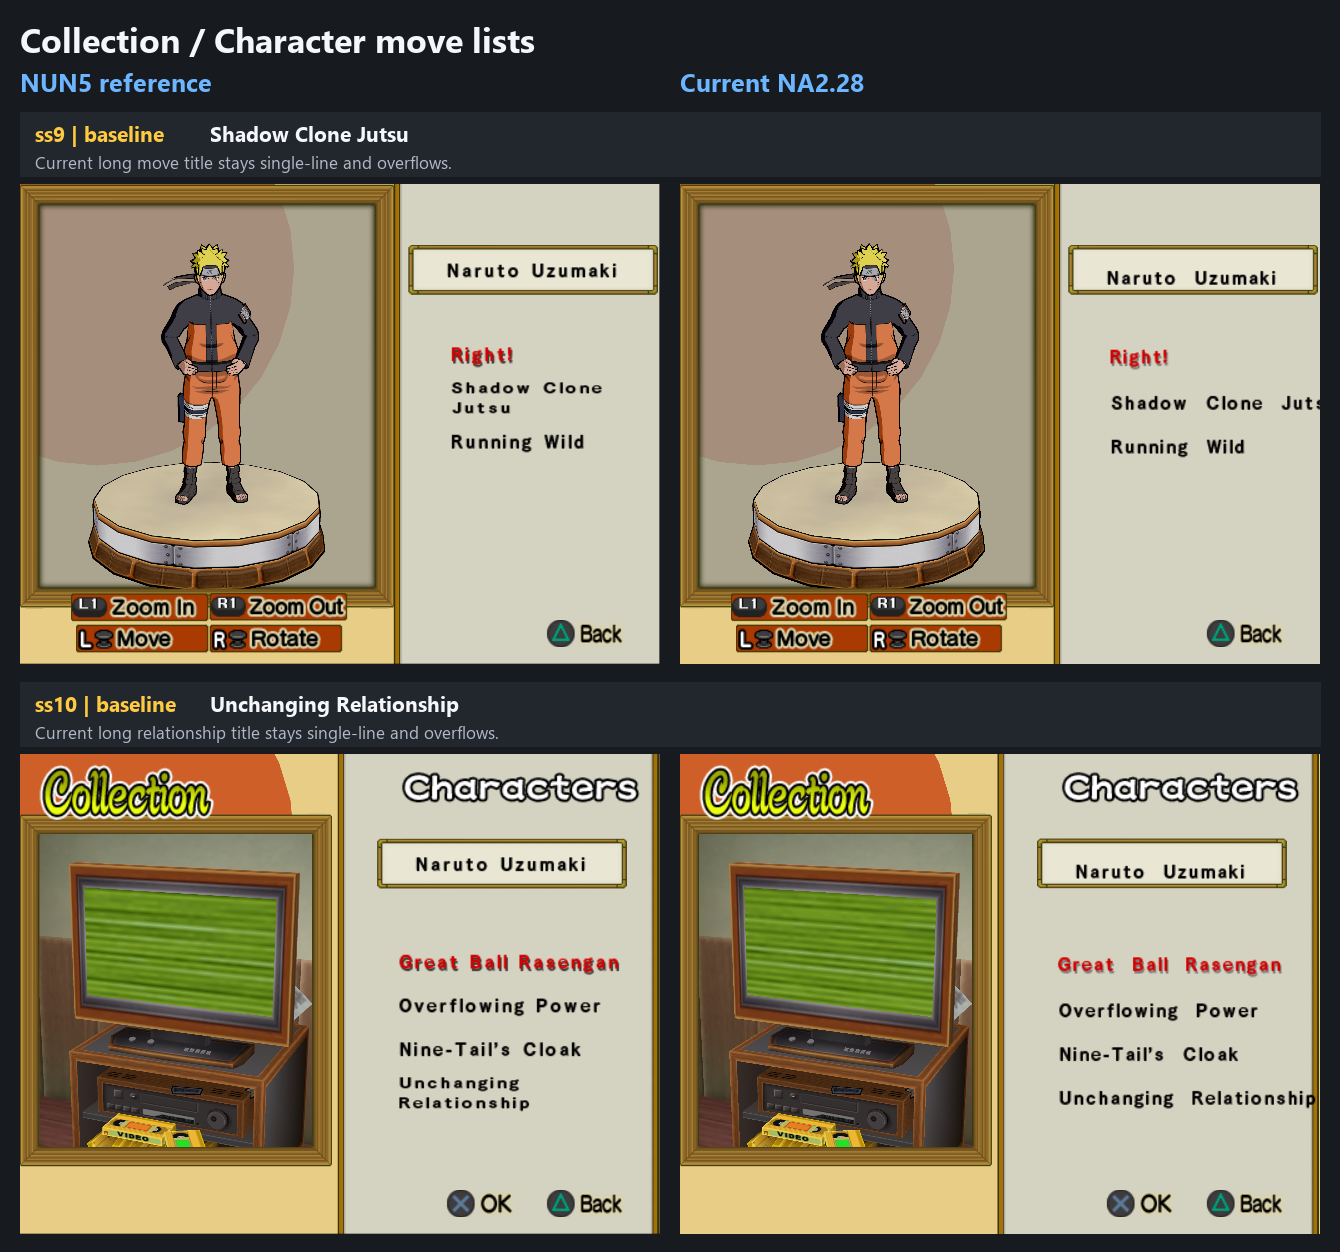
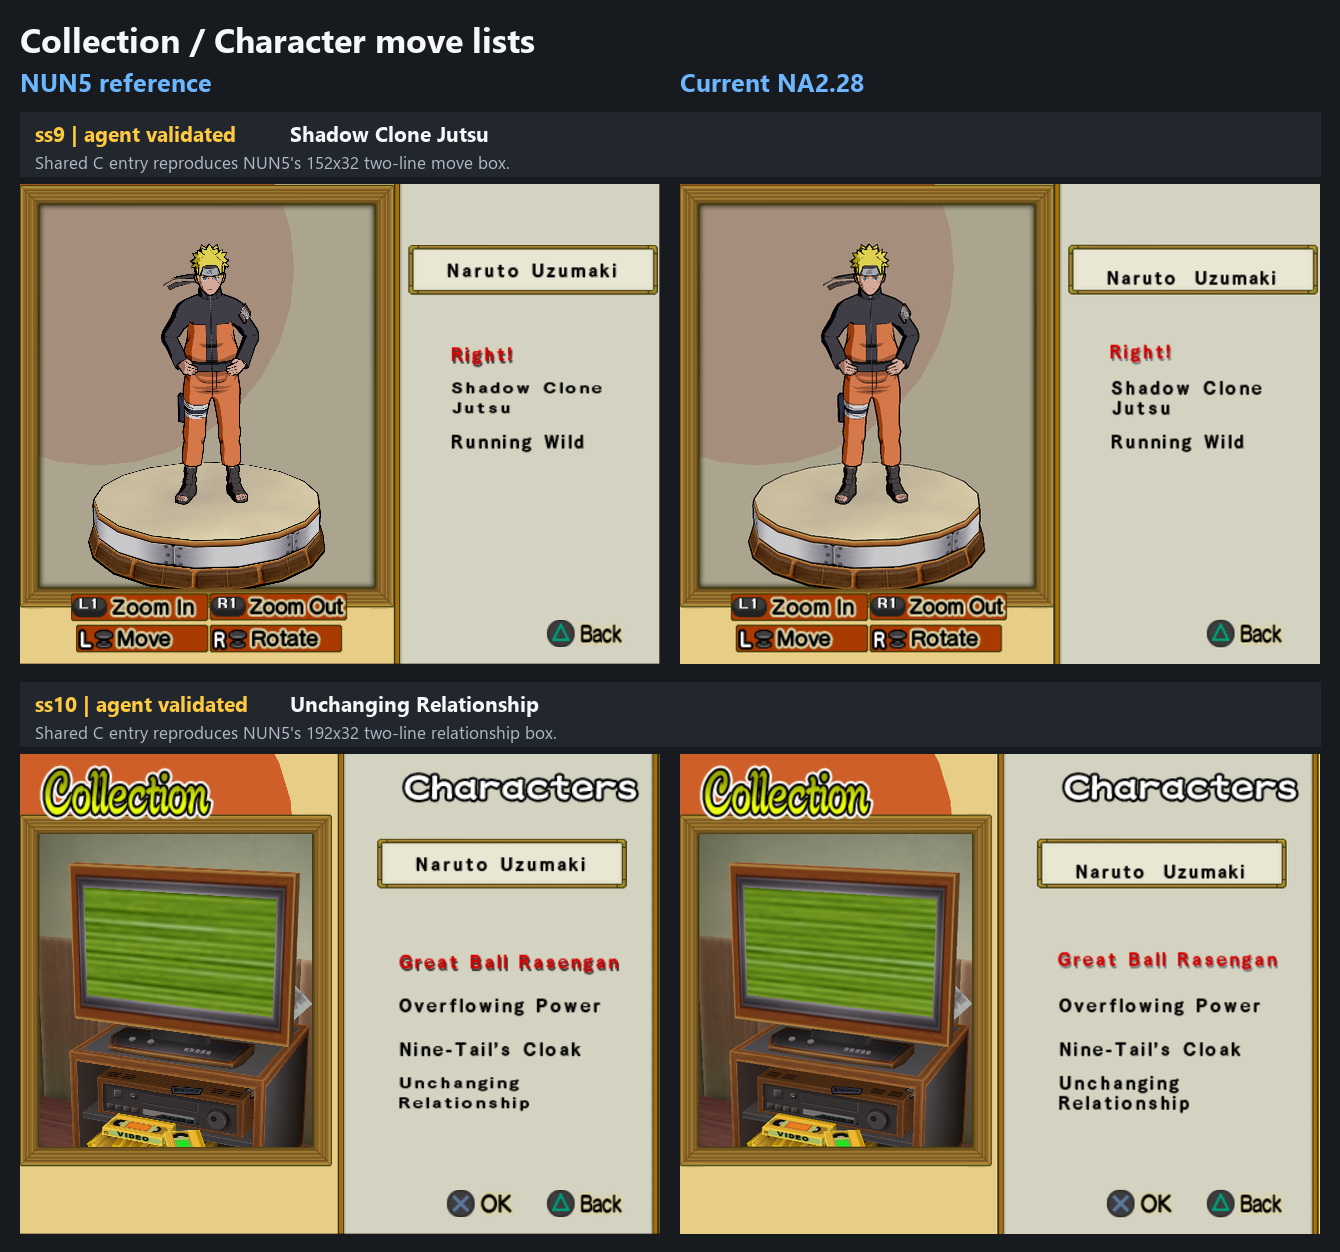
[Font] Wrap Collection character move lists

diff --git a/na228_builder/features/localization/runtime_injector/sources/font_v2_core.c b/na228_builder/features/localization/runtime_injector/sources/font_v2_core.c
@@ -62,14 +62,23 @@ typedef signed int s32;
 #define FONT_JUTSU_LINE_ADVANCE 16.0f
 #define FONT_JUTSU_GLYPH_HEIGHT 20.0f
 #define FONT_JUTSU_LINE_LIMIT 2u
-#define FONT_MOVIE_TEXT_START 0x003FFAA0u
-#define FONT_MOVIE_TEXT_END 0x003FFC10u
-#define FONT_MOVIE_BOX_Y_OFFSET -10.0f
-#define FONT_MOVIE_BOX_WIDTH 192u
-#define FONT_MOVIE_BOX_HEIGHT 32u
-#define FONT_MOVIE_LINE_ADVANCE 16.0f
-#define FONT_MOVIE_GLYPH_HEIGHT 20.0f
-#define FONT_MOVIE_LINE_LIMIT 2u
+#define FONT_COLLECTION_MOVIE_TEXT_START 0x003FFAA0u
+#define FONT_COLLECTION_MOVIE_TEXT_END 0x003FFC10u
+#define FONT_CHARACTER_MOVE_152_TEXT_0 0x006D9BD8u
+#define FONT_CHARACTER_MOVE_152_TEXT_1 0x006D9C00u
+#define FONT_CHARACTER_MOVE_152_TEXT_2 0x006D9C40u
+#define FONT_CHARACTER_MOVE_192_TEXT_0 0x006DC340u
+#define FONT_CHARACTER_MOVE_192_TEXT_1 0x006DC370u
+#define FONT_CHARACTER_MOVE_192_TEXT_2 0x006DC3A0u
+#define FONT_CHARACTER_MOVE_192_TEXT_3 0x006DC3C0u
+#define FONT_COLLECTION_LIST_BOX_Y_OFFSET -10.0f
+#define FONT_COLLECTION_MOVIE_BOX_WIDTH 192u
+#define FONT_CHARACTER_MOVE_152_BOX_WIDTH 152u
+#define FONT_CHARACTER_MOVE_192_BOX_WIDTH 192u
+#define FONT_COLLECTION_LIST_BOX_HEIGHT 32u
+#define FONT_COLLECTION_LIST_LINE_ADVANCE 16.0f
+#define FONT_COLLECTION_LIST_GLYPH_HEIGHT 20.0f
+#define FONT_COLLECTION_LIST_LINE_LIMIT 2u
 #define FONT_PRACTICE_TITLE_BOX_X 31.2f
 #define FONT_PRACTICE_TITLE_BOX_WIDTH 352u
 #define FONT_PRACTICE_TITLE_Y_OFFSET -6.8f
@@ -1057,8 +1066,8 @@ int font_v2_jutsu_draw_entry(
     return font_v2_adapter_call(&frame.session);
 }
 
-static FONT_V2_SECTION(".text.font_v2_movie_list_callback")
-int font_v2_movie_list_callback(
+static FONT_V2_SECTION(".text.font_v2_collection_list_callback")
+int font_v2_collection_list_callback(
     u32 text,
     u32 highlighted,
     u32 arg2,
@@ -1095,8 +1104,8 @@ int font_v2_movie_list_callback(
     return 0;
 }
 
-FONT_V2_SECTION(".text.font_v2_movie_list_entry")
-int font_v2_movie_list_entry(
+FONT_V2_SECTION(".text.font_v2_collection_list_entry")
+int font_v2_collection_list_entry(
     const u8 *text,
     u32 highlighted,
     float native_x,
@@ -1105,15 +1114,31 @@ int font_v2_movie_list_entry(
     FontV2BodyFrame frame;
     FontV2NativeDraw draw = (FontV2NativeDraw)FONT_DRAW_ADDRESS;
     u32 text_address = (u32)text;
+    u32 box_width = 0;
     u32 index = 0;
 
     if (!text) {
         return -1;
     }
     if (
-        text_address < FONT_MOVIE_TEXT_START ||
-        text_address >= FONT_MOVIE_TEXT_END
+        text_address >= FONT_COLLECTION_MOVIE_TEXT_START &&
+        text_address < FONT_COLLECTION_MOVIE_TEXT_END
     ) {
+        box_width = FONT_COLLECTION_MOVIE_BOX_WIDTH;
+    } else if (
+        text_address == FONT_CHARACTER_MOVE_152_TEXT_0 ||
+        text_address == FONT_CHARACTER_MOVE_152_TEXT_1 ||
+        text_address == FONT_CHARACTER_MOVE_152_TEXT_2
+    ) {
+        box_width = FONT_CHARACTER_MOVE_152_BOX_WIDTH;
+    } else if (
+        text_address == FONT_CHARACTER_MOVE_192_TEXT_0 ||
+        text_address == FONT_CHARACTER_MOVE_192_TEXT_1 ||
+        text_address == FONT_CHARACTER_MOVE_192_TEXT_2 ||
+        text_address == FONT_CHARACTER_MOVE_192_TEXT_3
+    ) {
+        box_width = FONT_CHARACTER_MOVE_192_BOX_WIDTH;
+    } else {
         draw(native_x, native_y, text, highlighted);
         return 0;
     }
@@ -1127,8 +1152,8 @@ int font_v2_movie_list_entry(
     if (
         font_v2_wrap_native(
             frame.buffer,
-            FONT_MOVIE_BOX_WIDTH,
-            FONT_MOVIE_LINE_LIMIT,
+            box_width,
+            FONT_COLLECTION_LIST_LINE_LIMIT,
             &frame.session.measured_width,
             &frame.session.line_count
         ) != 0
@@ -1138,9 +1163,9 @@ int font_v2_movie_list_entry(
 
     frame.session.text = frame.buffer;
     frame.session.box_x = native_x;
-    frame.session.box_y = native_y + FONT_MOVIE_BOX_Y_OFFSET;
-    frame.session.box_width = FONT_MOVIE_BOX_WIDTH;
-    frame.session.box_height = FONT_MOVIE_BOX_HEIGHT;
+    frame.session.box_y = native_y + FONT_COLLECTION_LIST_BOX_Y_OFFSET;
+    frame.session.box_width = box_width;
+    frame.session.box_height = FONT_COLLECTION_LIST_BOX_HEIGHT;
     frame.session.horizontal_alignment = FONT_V2_ALIGN_START;
     frame.session.vertical_alignment = FONT_V2_ALIGN_CENTER;
     frame.session.flags =
@@ -1148,10 +1173,10 @@ int font_v2_movie_list_entry(
         FONT_V2_FLAG_SEPARATE_LINE_ADVANCE |
         FONT_V2_FLAG_PREMEASURED |
         FONT_V2_FLAG_GLYPH_HEIGHT;
-    frame.session.line_limit = FONT_MOVIE_LINE_LIMIT;
-    frame.session.line_height = FONT_MOVIE_LINE_ADVANCE;
-    frame.session.glyph_height = FONT_MOVIE_GLYPH_HEIGHT;
-    frame.session.callback = (u32)font_v2_movie_list_callback;
+    frame.session.line_limit = FONT_COLLECTION_LIST_LINE_LIMIT;
+    frame.session.line_height = FONT_COLLECTION_LIST_LINE_ADVANCE;
+    frame.session.glyph_height = FONT_COLLECTION_LIST_GLYPH_HEIGHT;
+    frame.session.callback = (u32)font_v2_collection_list_callback;
     frame.session.callback_arg0 = (u32)frame.buffer;
     frame.session.callback_arg1 = highlighted;
     frame.session.callback_arg2 = 0;

diff --git a/scripts/research/localization/verify_font_renderer.py b/scripts/research/localization/verify_font_renderer.py
@@ -119,8 +119,8 @@ V2_CHARACTER_UNSELECTED_ADAPTER = (
 )
 V2_JUTSU_DRAW_CALLBACK = f"{V2_PREFIX}.c.jutsu_draw_callback"
 V2_JUTSU_DRAW_ENTRY = f"{V2_PREFIX}.jutsu_draw_entry"
-V2_MOVIE_LIST_CALLBACK = f"{V2_PREFIX}.c.movie_list_callback"
-V2_MOVIE_LIST_ENTRY = f"{V2_PREFIX}.movie_list_entry"
+V2_COLLECTION_LIST_CALLBACK = f"{V2_PREFIX}.c.collection_list_callback"
+V2_COLLECTION_LIST_ENTRY = f"{V2_PREFIX}.collection_list_entry"
 V2_CHARACTER_CONFIRMATION_BODY_CALLBACK = (
     f"{V2_PREFIX}.c.character_confirmation_body_callback"
 )
@@ -444,7 +444,7 @@ def build_v2_c_core() -> tuple[Fragment, ...]:
         "font_v2_character_selected_adapter",
         "font_v2_character_unselected_adapter",
         "font_v2_jutsu_draw_entry",
-        "font_v2_movie_list_entry",
+        "font_v2_collection_list_entry",
         "font_v2_practice_icon_metric",
         "font_v2_practice_icon_draw",
         "font_v2_practice_adapter_impl",
@@ -520,8 +520,8 @@ def build_v2_c_core() -> tuple[Fragment, ...]:
         extracted.symbols["font_v2_jutsu_draw_entry"].symbol: (
             V2_JUTSU_DRAW_ENTRY
         ),
-        extracted.symbols["font_v2_movie_list_entry"].symbol: (
-            V2_MOVIE_LIST_ENTRY
+        extracted.symbols["font_v2_collection_list_entry"].symbol: (
+            V2_COLLECTION_LIST_ENTRY
         ),
         extracted.symbols["font_v2_practice_icon_metric"].symbol: (
             V2_PRACTICE_ICON_METRIC
@@ -559,8 +559,8 @@ def build_v2_c_core() -> tuple[Fragment, ...]:
         f"{V2_PREFIX}.c.text.font.v2.jutsu.draw.callback": (
             V2_JUTSU_DRAW_CALLBACK
         ),
-        f"{V2_PREFIX}.c.text.font.v2.movie.list.callback": (
-            V2_MOVIE_LIST_CALLBACK
+        f"{V2_PREFIX}.c.text.font.v2.collection.list.callback": (
+            V2_COLLECTION_LIST_CALLBACK
         ),
     }
     if helper_symbols != set(helper_aliases):
@@ -624,8 +624,8 @@ def build_v2_c_core() -> tuple[Fragment, ...]:
         V2_CHARACTER_CONFIRMATION_BODY_CALLBACK,
         V2_JUTSU_DRAW_CALLBACK,
         V2_JUTSU_DRAW_ENTRY,
-        V2_MOVIE_LIST_CALLBACK,
-        V2_MOVIE_LIST_ENTRY,
+        V2_COLLECTION_LIST_CALLBACK,
+        V2_COLLECTION_LIST_ENTRY,
         f"{V2_PREFIX}.c.icon_record",
         V2_PRACTICE_ICON_METRIC,
         V2_PRACTICE_ICON_DRAW,

diff --git a/docs/knowledge/localization/font/README.md b/docs/knowledge/localization/font/README.md
@@ -1093,41 +1093,58 @@ a truthful post-change result grid. Clean-construction runtime validation and
 user acceptance remain pending. Confidence is **high** for the bounded caller
 identity and target geometry; status is **approved for test**.
 
-### Collection Movie-list fixed-cadence wrapping
+### Collection fixed-cadence list wrapping
 
-The replacement 2026-07-30 ss8 pair isolates the Collection Movie list.
-Bounded NA2 ETC inspection identifies `FUN_006B4D30`; its single active title
-draw is runtime `0x006B4ED8`, file `0xFD8`, guarded by
+The replacement 2026-07-30 ss8-ss10 pairs isolate the Collection Movie and
+character-detail lists. Bounded NA2 ETC inspection identifies
+`FUN_006B4D30`; its shared active row draw is runtime `0x006B4ED8`, file
+`0xFD8`, guarded by
 `10E40D0C00000000` (`jal 0x00379040` plus NOP). The NUN5 homolog
 `FUN_006C7CA0` replaces the corresponding draw at ETC file `0x1164` with its
 boxed renderer at `0x0038A210`.
 
-NUN5 uses a 192-by-32, two-line box at native X and native Y minus 10. The
-outer list retains fixed row cadence; wrapped titles occupy two lines inside
-their existing row rather than increasing later row positions. Its exact
-visible breaks are:
+NUN5 stores the active box width and height in each list structure at
+`+0x14/+0x18`. The supplied states prove a 192-by-32 box for ss8 Movie titles,
+a 152-by-32 box for the ss9 move list, and a 192-by-32 box for the ss10
+relationship list. Every family uses native X, native Y minus 10, two lines,
+and a 16-unit line interval. The outer list retains fixed row cadence; wrapped
+titles occupy two lines inside their existing row rather than increasing later
+row positions. Exact visible breaks include:
 
 - `Sealing Jutsu: Nine` / `Phantom Dragons`;
 - `People of Endless` / `Darkness`;
 - `Ninja Art: Beast` / `Scroll Replicas`;
-- `Fourth Awakened` / `Mode`.
+- `Fourth Awakened` / `Mode`;
+- `Shadow Clone` / `Jutsu`;
+- `Unchanging` / `Relationship`.
 
-The bounded implementation accepts only Movie-title pointers in
-`0x003FFAA0..0x003FFC10`, copies the source to a transient buffer, and reuses
+NA2's ss9 parent at `0x00C8D110` points to list head `0x00C75C00`; the visible
+text pointers are `0x006D9BD8` (`Right!`), `0x006D9C00`
+(`Shadow Clone Jutsu`), and `0x006D9C40` (`Running Wild`). Its ss10 parent at
+`0x00C9BDE0` points to list head `0x00C79EE0`; the visible text pointers are
+`0x006DC340`, `0x006DC370`, `0x006DC3A0`, and `0x006DC3C0`. The corresponding
+NUN5 parents are `0x00C0BCA0` with width 152 and `0x00C1C630` with width 192.
+The NA2 structures do not retain homologous usable box fields at the NUN5
+offsets, so copying those offsets is not a valid implementation.
+
+The bounded implementation accepts Movie-title pointers in
+`0x003FFAA0..0x003FFC10` plus only the seven exact ss9/ss10 character-detail
+pointers above, copies the source to a transient buffer, and reuses
 `font_v2_wrap_native` with a two-line limit. It draws each resulting line
 through the displaced native renderer at a 16-unit interval. That separate
 line draw is required because passing the inserted newline to NA2's native
-renderer produces a 25-unit interval on this screen. Short titles, the
+renderer produces a 25-unit interval on these screens. Short titles, the
 highlighted red style, fixed caller cadence, source mappings, and every
-non-Movie use of the shared renderer remain native.
+other pointer through the shared renderer remain native.
 
-The task-owned ss8 candidate gives the same four breaks and horizontal origins
-as NUN5, while `Reunion Time I`, `Reunion Time II`, and `Credits` retain their
-native rows. The candidate was compiled and linked against the exact
-compatible ISO, applied after supplied-state reload, and captured through the
-task-owned PINE worker. Confidence is **verified** for the caller, pointer
-boundary, wrapper geometry, line interval, and visible ss8 result; status is
-**approved for test** pending explicit user acceptance.
+Task-owned ss8-ss10 candidates reproduce every NUN5 break and horizontal
+origin. `Reunion Time I`, `Reunion Time II`, `Credits`, `Right!`,
+`Running Wild`, and the three short ss10 titles retain their native rows. The
+candidates were compiled and linked against the exact compatible ISO, applied
+after each supplied-state reload, and captured through the task-owned PINE
+worker. Confidence is **verified** for the shared caller, pointer families,
+three box geometries, line interval, ss8 regression, and visible ss9/ss10
+results; status is **approved for test** pending explicit user acceptance.
 
 ### Character Select modal selected row, return body, and choice list
 

diff --git a/docs/workstreams/font/epics/ss2-6-layout/README.md b/docs/workstreams/font/epics/ss2-6-layout/README.md
@@ -14,9 +14,10 @@ case.
 - Mode: Continuous.
 - Current subtask: Priority 6 — ss9–ss10 character move lists. Priority 4 remains
   queued because supplied ss7 resumes after its two owner calls.
-- Pending grid: none.
-- Next action: investigate the shared ss9–ss10 move-list caller family without
-  waiting for earlier acceptance.
+- Pending grid:
+  `docs/workstreams/font/epics/ss2-6-layout/6-character-move-list.png`.
+- Next action: finish canonical validation and visibly deliver the Priority 6
+  result, then stop as explicitly requested.
 
 ## Scope and evidence
 
@@ -136,11 +137,16 @@ case.
 
 ### Priority 6 — ss9–ss10: Character move lists
 
-- State: two matched baselines captured; not implemented.
-- Remaining defect: Current keeps long move and relationship titles on one
-  line and overflows, while NUN5 wraps them within the move-list column.
+- State: implemented, canonically validated, agent-validated on both supplied
+  states, and awaiting visible delivery and explicit user acceptance.
+- Result: the shared ETC row entry recognizes only the two exact
+  character-detail pointer families. ss9 uses NUN5's 152-by-32 box and ss10
+  uses its 192-by-32 box; both retain native X, move Y up 10 units, and use the
+  accepted 16-unit two-line compositor. Short rows and every unrelated ETC row
+  remain native. The broadened entry also preserves the accepted ss8 Movie-list
+  output.
 
-![Priority 6 Character move-list baselines](6-character-move-list.png)
+![Priority 6 Character move-list result](6-character-move-list.png)
 
 ## Current priorities
 
@@ -156,9 +162,9 @@ Priority is determined by the most efficient implementation order.
    construction evidence remains queued.
 5. **ss8 — Movie list.** Implemented, agent-validated, and visibly delivered
    with fixed-cadence two-line wrapping; explicit user acceptance is pending.
-6. **ss9–ss10 — Character move lists.** Next actionable case: reuse one
-   bounded wrapping primitive for both long-title cases where the caller
-   family is shared.
+6. **ss9–ss10 — Character move lists.** Implemented and agent-validated on
+   both supplied states through one pointer-bounded shared entry; visible
+   delivery and explicit user acceptance remain pending.
 
 Shared primitives are implemented only once. Each prioritized caller family
 receives one guarded implementation and commit/push boundary; every case keeps

diff --git a/na228_builder/features/localization/README.md b/na228_builder/features/localization/README.md
@@ -1889,18 +1889,19 @@ verification pass; clean-construction runtime validation and user acceptance
 remain pending because the supplied visible-prompt ss7 state resumes after
 both owner calls.
 
-The separate `font_layout_collection_movie_list` layer owns only the Movie
+The separate `font_layout_collection_lists` layer owns the shared Collection
 row draw in ETC `FUN_006B4D30`, file `0xFD8` (clean guard
-`10E40D0C00000000`). Its C entry accepts only pointers in the exact Movie-title
-table range `0x003FFAA0..0x003FFC10`; every other caller immediately executes
-the displaced native draw. Movie titles are copied to a bounded transient
-buffer, wrapped to the NUN5 192-by-32 two-line box, and rendered at native X
-and native Y minus 10. The list owner keeps its fixed row cadence. Each
-transient line is drawn separately at a 16-unit interval because NA2's native
-newline path advances 25 units on this screen. Replacement-batch ss8 proves
-the exact NUN5 breaks and origins for all four long titles while the short
-titles, selection style, and unrelated ETC callers remain native. The layer
-is `approved_for_test` pending explicit user acceptance.
+`10E40D0C00000000`). Its C entry accepts only the exact Movie-title range and
+the two verified character-detail pointer families; every unrelated row
+immediately executes the displaced native draw. Movie and relationship titles
+use NUN5's 192-by-32 box, while the narrower character-move list uses its
+152-by-32 box. All selected rows are rendered at native X and native Y minus
+10. The list owner keeps fixed row cadence, and each transient line is drawn
+separately at a 16-unit interval because NA2's native newline path advances 25
+units on these screens. Replacement-batch ss8-ss10 proves the exact NUN5
+breaks and origins for every visible long title while short titles, selection
+style, and unrelated ETC rows remain native. The layer is
+`approved_for_test` pending explicit user acceptance.
 
 The `font_layout_character_select_modal` layer owns four exact main-ELF
 callers rather than broad modal behavior. Files `0x2BC984` and `0x2BC9BC`
